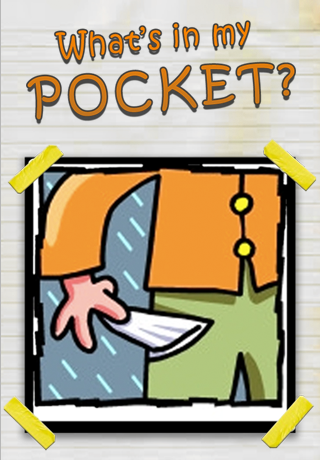
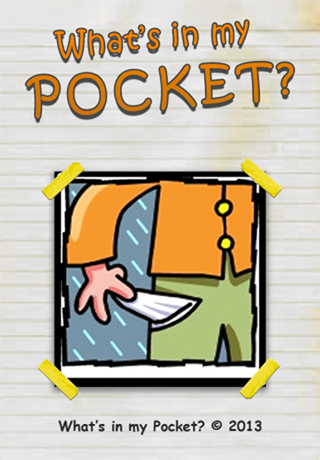
Adjusted default image to match splash view, fixed crash issue when no jobs exist

diff --git a/WhatsInMyPocket/CalculateTableViewController.m b/WhatsInMyPocket/CalculateTableViewController.m
@@ -43,7 +43,8 @@
         [_splashViewController showNameFieldIfNeeded];
     }];
 
-    _jobs = [[[DataManager sharedManager] jobs] mutableCopy];
+    NSArray *jobs = [[DataManager sharedManager] jobs];
+    _jobs = (nil != jobs) ? [jobs mutableCopy] : [NSMutableArray array];
     _selectedJobs = [NSMutableArray arrayWithCapacity:[_jobs count]];
     NSLog(@"_jobs %@", _jobs);
     
@@ -66,6 +67,7 @@
 
 - (void)_jobsDidChange:(NSNotification *)notification;
 {
+    
     [notification.object enumerateKeysAndObjectsUsingBlock:^(id key, Job *job, BOOL *stop) {
         
         if ([key isEqualToString:kNotificationKey_JobAdded] && nil != job) {
